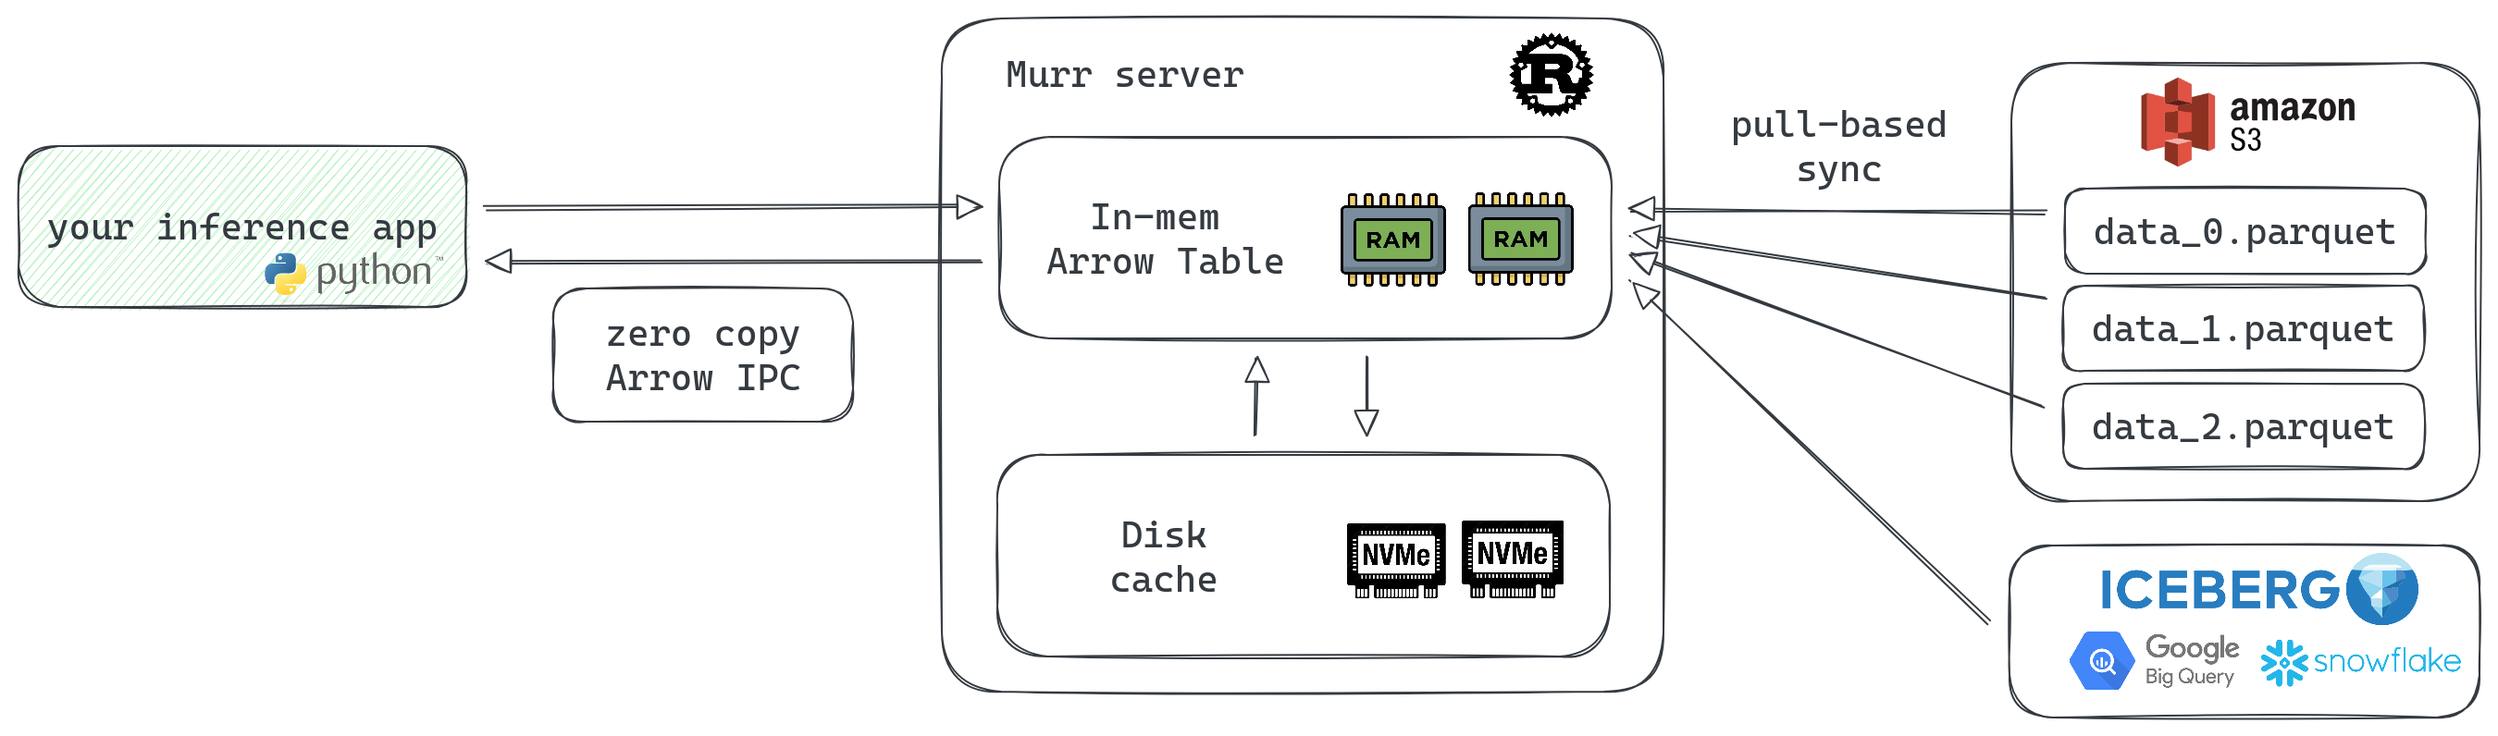
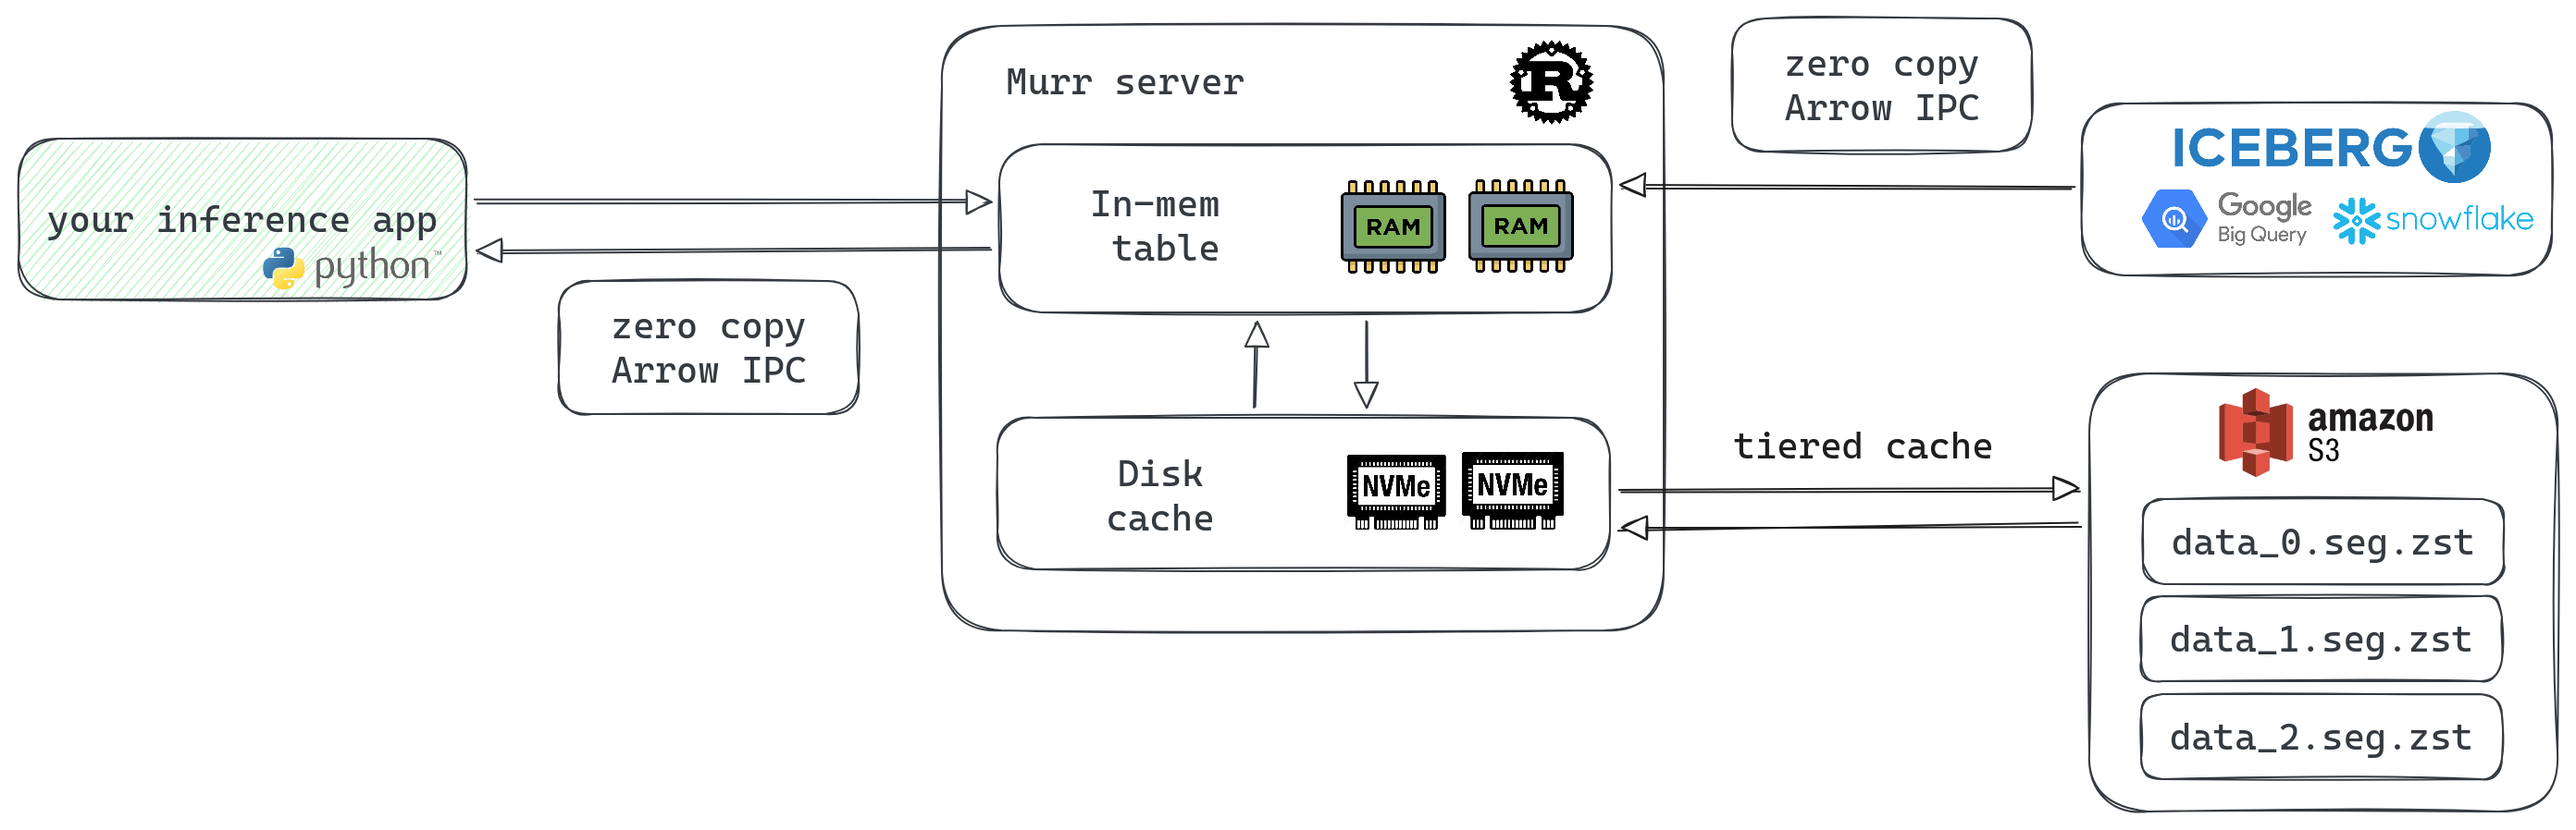
rewrite readme

diff --git a/README.md b/README.md
@@ -5,35 +5,60 @@
 ![Last commit](https://img.shields.io/github/last-commit/shuttie/murr)
 ![Last release](https://img.shields.io/github/release/shuttie/murr)
 
-Columnar in-memory cache for AI inference workloads. A Redis replacement optimized for batch low-latency zero-copy feature retrieval.
+Columnar in-memory cache for AI inference workloads. A faster Redis/RocksDB replacement optimized for batch low-latency zero-copy reads and writes.
+
+> This `README.md` is 100% human written.
 
 ## What is Murr?
 
 ![system diagram](doc/img/overview.png)
 
-Murr is a caching layer for ML feature serving that sits between your batch data pipelines and inference services:
+Murr is a caching layer for ML/AI data serving that sits between your batch data pipelines and inference apps:
 
-- **Columnar storage**: Custom binary `.seg` format optimized for "give me columns X, Y, Z for keys 1-200" access patterns
-- **Zero-copy reads**: Memory-mapped segments with direct byte-level access — no deserialization overhead
-- **Pull-based sync**: Workers poll S3 for new Parquet partitions and reload automatically
-- **Stateless**: No primary/replica coordination, just point at S3 and scale horizontally
-- **Dual API**: REST with content negotiation (JSON/Arrow IPC) and Arrow Flight gRPC for native integration with Arrow-based data tools
-- **Content-negotiated HTTP**: JSON for debugging, Arrow IPC for production — maps directly to `np.ndarray` and `torch.Tensor`
-- **Single-binary**: Written in Rust, deploys as one binary with a YAML config
+- **Tiered storage**: hot data in memory, cold data on disk with S3-based replication. It's 2026, RAM is expensive, keep only hot data there.
+- **Batch-in and batch-out**: native batch reads and writes from columnar storage, no per-row overhead. Dumping 1GB Parquet/Arrow files to an ingestion API is a valid usage scenario.
+- **Zero-copy wire protocol**: zero conversion when building `np.ndarray`, `pd.DataFrame` and `pt.Tensor` from API replies. Yes, Redis is fast, but parsing its responses is not (especially in Python!).
+- **Stateless**: Murr is not a database, all state is persisted on S3. When Redis node gets down, you're cooked - but Murr always bootstraps from S3.
+
+Murr shines when:
+* **your data is heavy and tabular**: giant parquet dump on S3 your AI inference/ML prep offline job produces is a perfect fit.
+* **reads are batched**: pull 100 columns per 1000 documents your agent wants to analyze? Great!
+* **you care about costs**: yes Redis with 1TB RAM will work well, but disk/D3 offload makes things operationally easier and cheaper.
+
+Three-line quickstart:
+```shell
+uv pip install murrdb
+```
+
+```python
+TODO
+```
 
 ## Why Murr?
 
-ML inference often requires fetching features for hundreds of documents per request. A ranking model scoring 200 candidates with 40 features each needs 8000 values in milliseconds. Existing solutions weren't built for this:
+TLDR: You have latency, simplicity, costs -- choose only two. Murrdb tries to do all three: it's the fastest, cheapest and easiest to operate at once. A bold claim, I know.
 
-* **Redis** uses row-oriented storage. With Feast-style HSET layouts, each feature is a separate hash field, so fetching 40 features x 200 docs = 8000 hash lookups. Even with pipelining, this adds 50-100ms latency. Packing features into blobs helps reads but makes atomic updates complex.
+![comparison with competitors](doc/img/compare.png)
 
-* **DynamoDB** charges per request. High-throughput inference becomes expensive quickly.
+For a use case of `read N datapoints over M documents` (agent reading document attributes, ML ranker fetching feature values), apart from being the fastest, Murrdb:
+- vs **Redis**: is persistent (S3 is the new FS) and can offload cold data to local NVMe disk.
+- vs embedded **RocksDB**: no need to build data sync between producer job and inference nodes in-house. Murrdb was built being distributed from start.
+- vs **DynamoDB**: just 10x cheaper, as you only pay per CPU/RAM and not per query. 
 
-* **Local RocksDB** is fast but operationally heavy. You need pipelines to build DB files, distribute them to pods, and coordinate reloads. Storage costs multiply with replica count.
+Being designed not as a general-purpose database, it tries to be friendly to the PITAs of ML/AI engineers:
+* **First-class Python support**: `pip install murrdb`, map to/from Numpy/Pandas/Polars/Pytorch arrays with zero copy.
+* **Sparse columns**: when column has no data, it consumes zero bytes. Unlike packed feature blob approach, where null columns are not-actually-null.
 
-Simple, fast, cheap — you can choose only two.
+## Why NOT Murr?
 
-Murr is designed around the batch read pattern from the start. Data lives in a custom columnar segment format, so "give me columns X, Y, Z for keys 1-200" is a single scatter-gather operation, not thousands of lookups. Workers pull Parquet files from S3 on startup — no ingestion pipelines, no coordination. Responses support Arrow IPC, which maps directly to NumPy arrays without re-encoding.
+Murr is not a general-purpose database: 
+* **OLTP workload**: When you have relations, transactions and do per-row reads and writes, choose [Postgres](todo)
+* **Analytics**: You aggregate over whole table to produce a report? Choose [Clickhouse](todo), [Bigquery](todo) or [Snowflake](todo).
+* **General-purpose caching**: You need to cache user session data for a web app? Use (Redis)[todo].
+
+## Quickstart
+
+TODO
 
 ### Benchmarks
 
@@ -58,7 +83,7 @@ Murr is ~2.5x faster than the best Redis layout (MGET with packed blobs) and ~36
 
 **Pre-alpha. Here be dragons.**
 
-The storage engine, service layer, REST API, and Arrow Flight gRPC API are implemented and working. Data loading from S3 and the Python client are not yet built.
+The storage engine, service layer, REST API, and Arrow Flight gRPC API are implemented and working. But only god knows how well.
 
 ## Architecture
 
